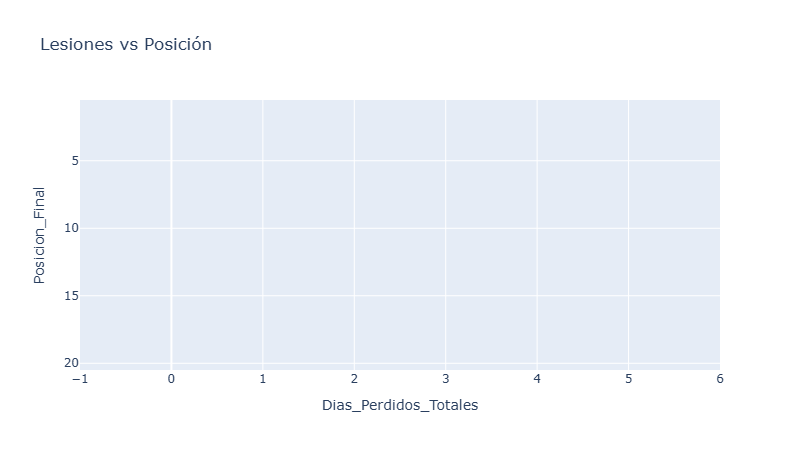
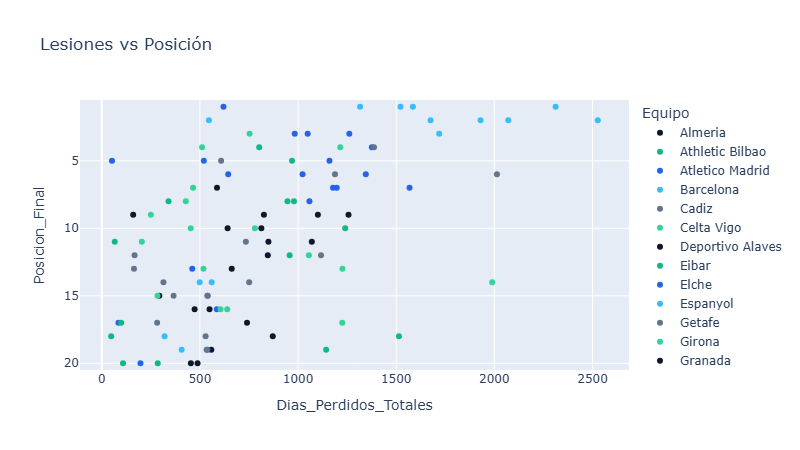
Agregamos la carpeta para proyecto de Unity

diff --git a/exportador.py b/exportador.py
@@ -82,8 +82,14 @@ for clave_liga, valores_liga in ligas_diccionario.items():
     # ==========================================
     # ACTO 3: COSTO DEPORTIVO (Dispersión/Scatter)
     # ==========================================
-    texto_filtro_costo = 'Premier League' if clave_liga == 'premier' else 'LaLiga' if clave_liga == 'laliga' else 'Serie A' if clave_liga == 'seriea' else ''
-    df_costo_filtrado = df_costo[df_costo['Liga'] == texto_filtro_costo] if texto_filtro_costo else df_costo
+    if clave_liga == "todas":
+        df_costo_filtrado = df_costo
+    elif clave_liga == "premier":
+        df_costo_filtrado = df_costo[df_costo['Liga'].str.contains('premier', case=False, na=False)]
+    elif clave_liga == "laliga":
+        df_costo_filtrado = df_costo[df_costo['Liga'].str.contains('laliga|la liga', case=False, na=False)]
+    elif clave_liga == "seriea":
+        df_costo_filtrado = df_costo[df_costo['Liga'].str.contains('serie', case=False, na=False)]
 
     fig_costo = px.scatter(
         df_costo_filtrado,
@@ -95,5 +101,3 @@ for clave_liga, valores_liga in ligas_diccionario.items():
         color_discrete_sequence=['#0f172a', '#10b981', '#2563eb', '#38bdf8', '#64748b', '#34d399']
     )
     fig_costo.write_image(f"costo_{clave_liga}.png", width=800, height=450)
-
-print("¡Listo! Revisa la carpeta, ahora sí deben ser 12 imágenes exactas.")
